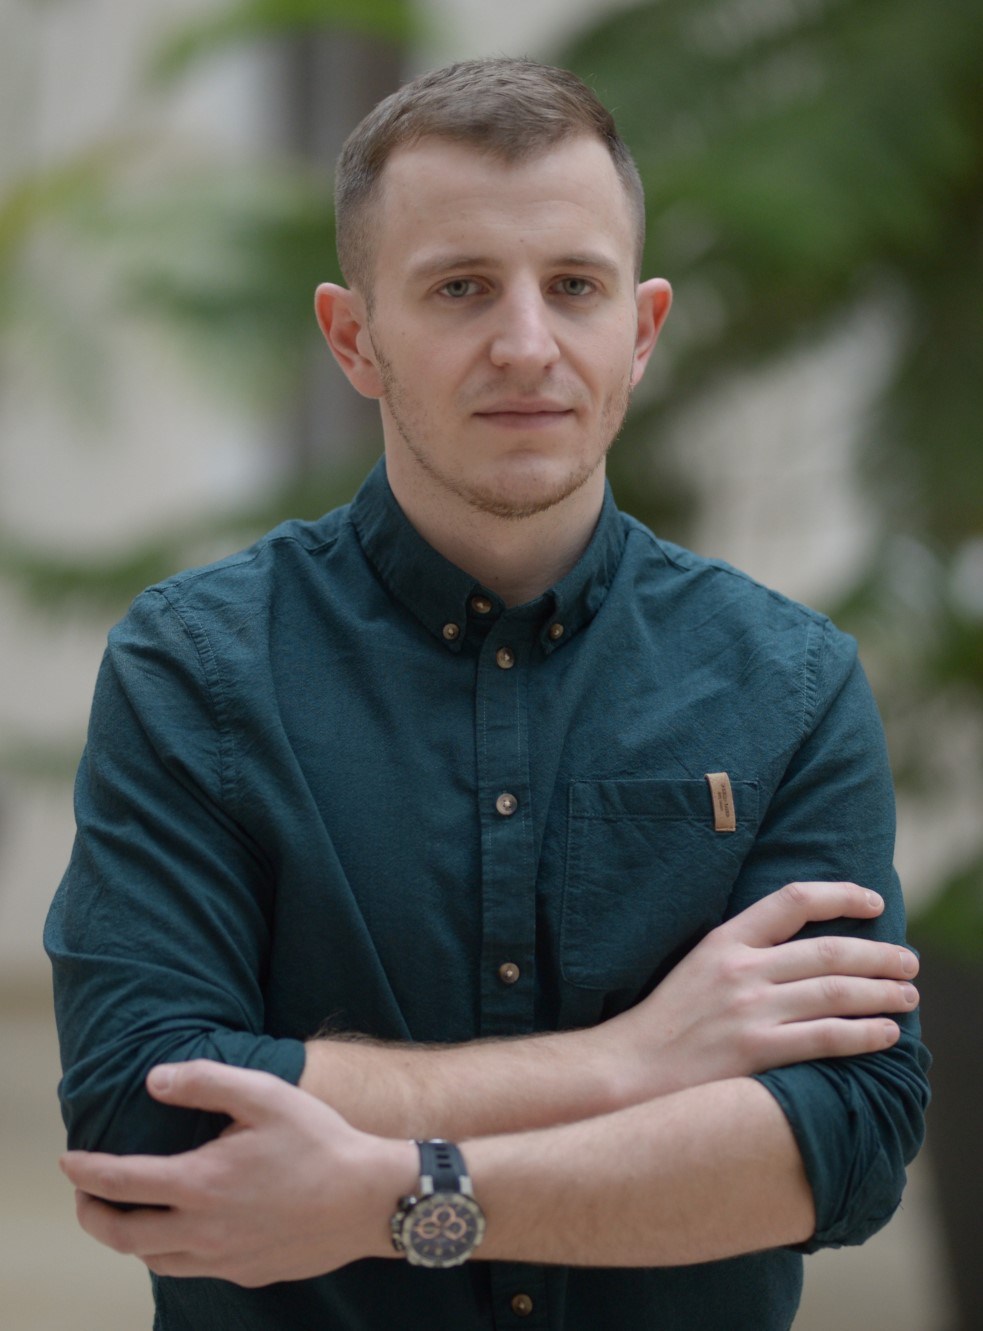
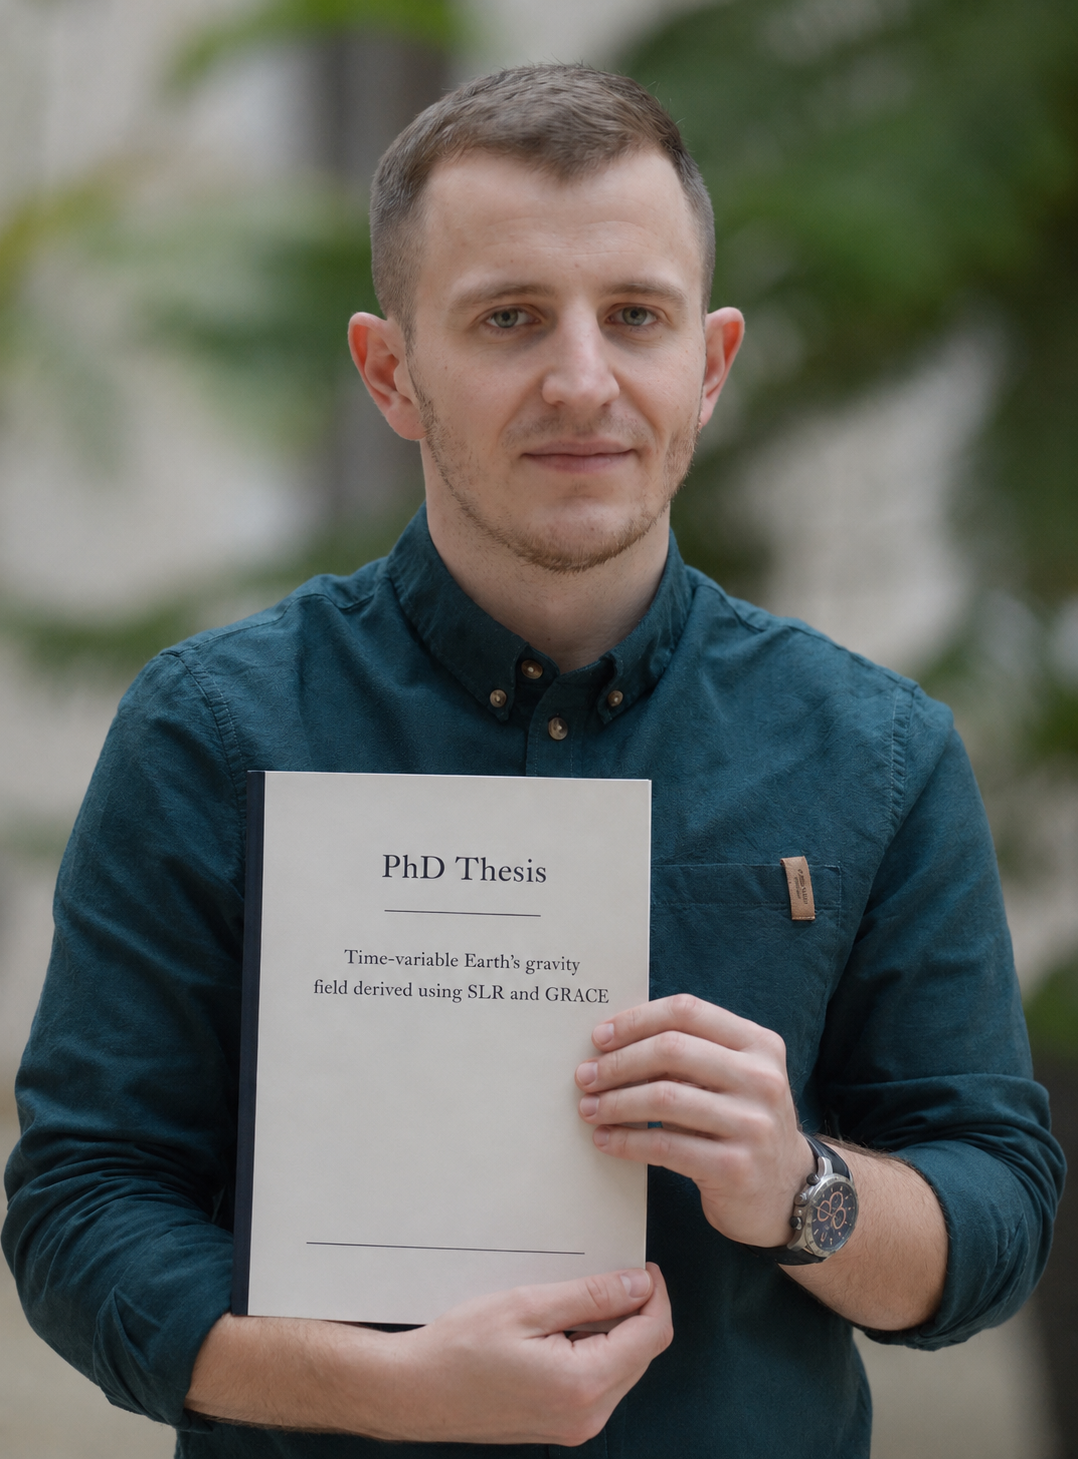
photo
photo

diff --git a/index.html b/index.html
@@ -49,9 +49,8 @@
 
 			.photo {
 				width: 100%;
-				aspect-ratio: 1 / 1.18;
-				object-fit: cover;
-				object-position: center top;
+				height: auto;
+				display: block;
 				border-radius: 6px;
 				box-shadow: 0 20px 60px rgba(29, 35, 40, 0.13);
 				background: var(--line);